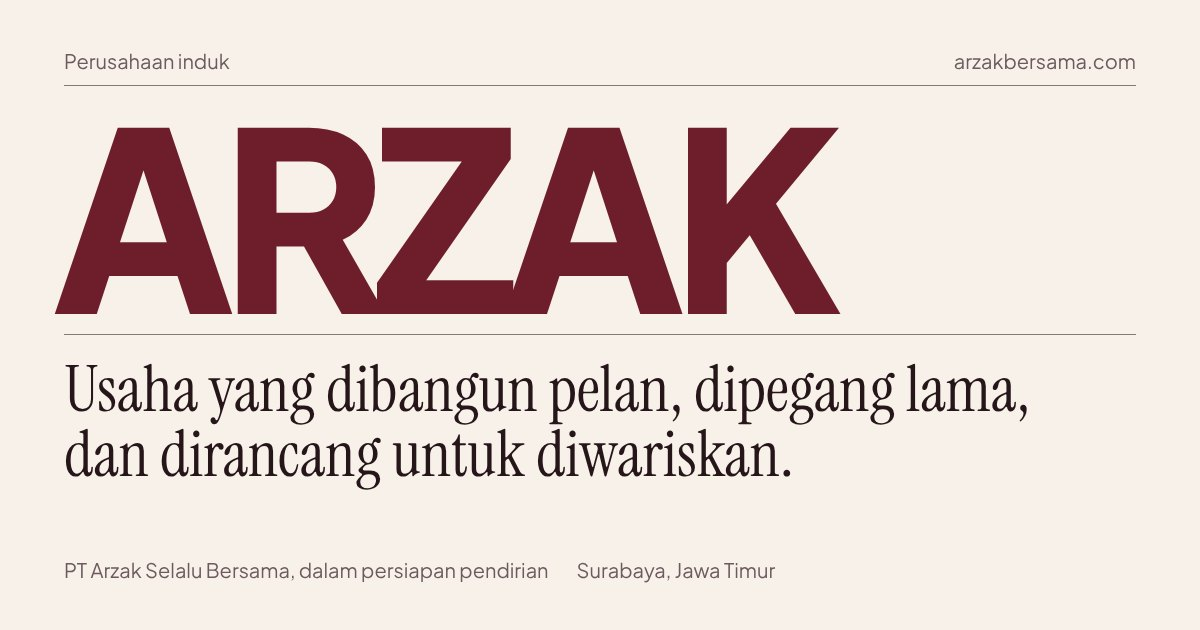
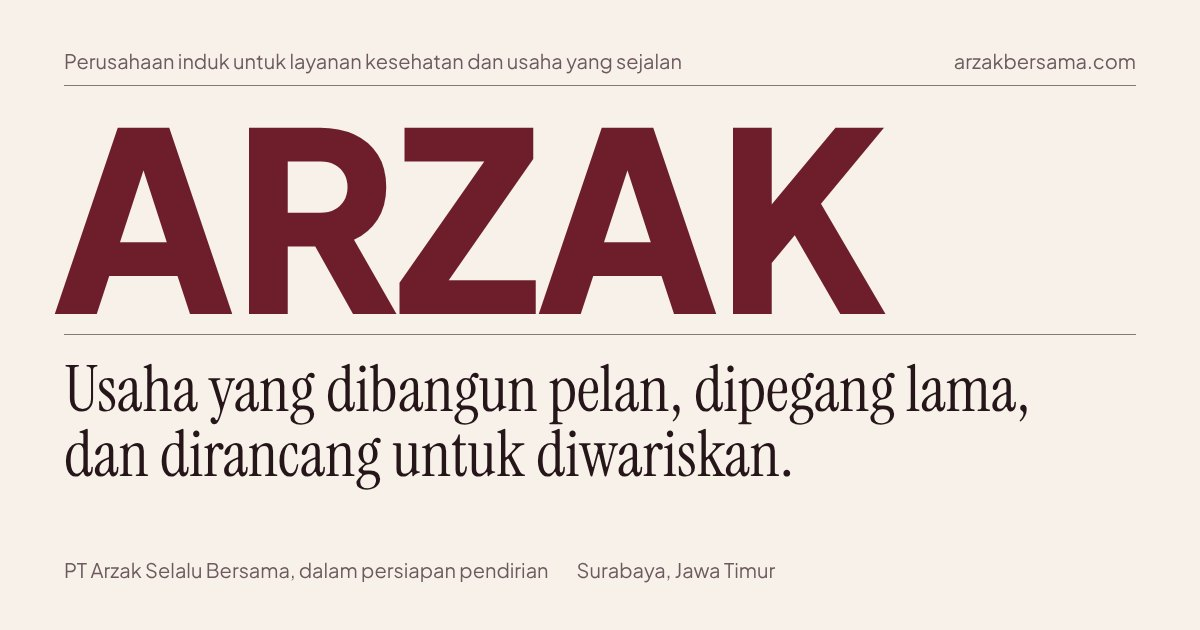
Kepala halaman, anatomi, dan papan nama diperbaiki
Claude-Session: https://claude.ai/code/session_01NvQn2CAaQgTbqh143HKJcU

Changed region(s): [[0.185, 0.181, 0.74, 0.5127], [0.185, 0.0905, 0.5858, 0.1206]]

diff --git a/index.html b/index.html
@@ -96,12 +96,10 @@ h2, h3, .lead h1 { text-wrap: balance; }
 .nameplate {
   font-family: var(--sans); font-weight: 800;
   font-size: clamp(5.5rem, 25.5vw, 23rem);
-  line-height: .8; letter-spacing: -.03em; color: var(--burg);
+  line-height: .8; letter-spacing: -.01em; color: var(--burg);
   margin: clamp(.75rem, 2vw, 1.5rem) 0 clamp(.5rem, 1.6vw, 1.25rem) -.05em;
   white-space: nowrap;
 }
-/* jarak R–Z dirapatkan, Z–A dibiarkan longgar supaya kedua huruf tidak bersentuhan */
-.nameplate .kern { margin-left: -.06em; letter-spacing: 0; }
 .origin {
   display: grid; grid-template-columns: 1fr 1fr; gap: clamp(1rem, 3vw, 2.5rem);
   border-top: 1px solid var(--rule-strong); padding-top: .9rem;
@@ -243,6 +241,7 @@ h2, h3, .lead h1 { text-wrap: balance; }
 .anat-head { display: flex; justify-content: space-between; align-items: baseline; gap: 1rem; border-bottom: 1px solid var(--rule-dark); padding-bottom: .9rem; }
 .anat-head h2 { font-size: clamp(1.5rem, 2.6vw, 2.25rem); font-weight: 700; letter-spacing: -.02em; }
 .anat-head span { color: var(--on-muted); font-size: .9375rem; }
+.anat-lede { font-family: var(--serif); font-size: clamp(1.75rem, 3.6vw, 3rem); line-height: 1.1; color: var(--on); max-width: 22ch; margin-top: clamp(1.5rem, 3.5vw, 2.5rem); }
 .anat-grid { display: grid; grid-template-columns: minmax(0, 7fr) minmax(0, 5fr); gap: clamp(2rem, 5vw, 5rem); align-items: center; margin-top: clamp(2rem, 5vw, 3.5rem); }
 @media (max-width: 56rem) { .anat-grid { grid-template-columns: 1fr; } }
 .anat figure svg { width: 100%; height: auto; max-height: 34rem; overflow: visible; }
@@ -345,10 +344,10 @@ h2, h3, .lead h1 { text-wrap: balance; }
 <a class="skip" href="#isi">Lewati ke isi</a>
 
 <header class="wrap plate-name">
-  <div class="edition"><span>Perusahaan induk</span><span>Edisi pertama, November 2026</span></div>
-  <p class="nameplate">AR<span class="kern">ZAK</span></p>
+  <div class="edition"><span>Profil perusahaan</span><span>Edisi pertama, November 2026</span></div>
+  <p class="nameplate">ARZAK</p>
   <div class="origin">
-    <p>Memegang, mengarahkan, dan menjaga usaha untuk jangka panjang.</p>
+    <p>Perusahaan induk untuk layanan kesehatan dan usaha yang sejalan.</p>
     <p>Surabaya, Jawa Timur</p>
   </div>
 </header>
@@ -387,7 +386,7 @@ h2, h3, .lead h1 { text-wrap: balance; }
   <section class="wrap lead" aria-labelledby="judul">
     <h1 id="judul">Usaha yang dibangun pelan, dipegang lama, dan dirancang untuk diwariskan.</h1>
     <div class="dek">
-      <p>ARZAK adalah perusahaan induk yang sedang didirikan sebagai PT Arzak Selalu Bersama (dalam persiapan pendirian). Kepemilikannya tertutup dan tidak dibuka untuk umum.</p>
+      <p>ARZAK sedang didirikan sebagai PT Arzak Selalu Bersama (dalam persiapan pendirian). Kepemilikannya tertutup dan tidak dibuka untuk umum; data pengurus dan pemegang saham diberikan kepada bank, notaris, dan calon mitra melalui korespondensi resmi.</p>
       <p>Setelah aktanya terbit, di sinilah saham usaha yang kelak didirikan atau diambil alih, gedung dan peralatan, merek, dan standar kerja akan dipegang.</p>
     </div>
   </section>
@@ -426,7 +425,7 @@ h2, h3, .lead h1 { text-wrap: balance; }
               <li data-i="2">
                 <p class="k">02 · Selat Madura</p>
                 <h3>Jembatan Suramadu, 5,4 kilometer.</h3>
-                <p>Penghubung tempat kedudukan ARZAK dengan Madura, tempat usaha pertama kami berjalan sejak 2024.</p>
+                <p>Penghubung tempat kedudukan ARZAK dengan Madura, tempat usaha pertama dalam lingkup ARZAK berjalan sejak 2024.</p>
                 <figure class="aslinya">
                   <img src="/foto/suramadu-kecil.jpg" width="960" height="642" alt="Foto Jembatan Suramadu dengan dua pylon merahnya, dilihat dari pantai saat air surut" loading="lazy" decoding="async">
                   <figcaption>Jembatan aslinya. Foto: Sakurai Midori, Wikimedia Commons, CC BY 3.0, dipotong dan warnanya disesuaikan.</figcaption>
@@ -454,6 +453,7 @@ h2, h3, .lead h1 { text-wrap: balance; }
   <section class="dark anat" id="tanda" aria-labelledby="anat-judul">
     <div class="wrap">
       <div class="anat-head"><h2 id="anat-judul">Anatomi tanda ARZAK</h2><span>Gambar 2</span></div>
+      <p class="anat-lede">Modal tanpa tata kelola tidak membentuk apa pun.</p>
       <div class="anat-grid">
         <figure><svg viewBox="-34 -16 196 140" role="img" aria-label="Logo ARZAK dengan empat bagian bernomor: kaki kiri, kaki kanan, puncak, dan lengkung emas" xmlns="http://www.w3.org/2000/svg"><g class="mark-art">
 <defs>
@@ -475,9 +475,9 @@ h2, h3, .lead h1 { text-wrap: balance; }
 </g>
 </g><line class="lead-line" x1="-15.9" y1="41.0" x2="50.1" y2="52" stroke="#C9A24B" stroke-width=".7"/><circle class="badge" cx="50.1" cy="52" r="1.9" fill="#2A0B12" stroke="#C9A24B" stroke-width=".8"/><g class="badge"><circle cx="-22" cy="40" r="6.2" fill="#2A0B12" stroke="#C9A24B" stroke-width=".9"/><text x="-22" y="42.4" text-anchor="middle" font-family="Plus Jakarta Sans, sans-serif" font-weight="700" font-size="6.6" fill="#C9A24B">1</text></g><line class="lead-line" x1="143.8" y1="80.0" x2="92.8" y2="80" stroke="#C9A24B" stroke-width=".7"/><circle class="badge" cx="92.8" cy="80" r="1.9" fill="#2A0B12" stroke="#C9A24B" stroke-width=".8"/><g class="badge"><circle cx="150" cy="80" r="6.2" fill="#2A0B12" stroke="#C9A24B" stroke-width=".9"/><text x="150" y="82.4" text-anchor="middle" font-family="Plus Jakarta Sans, sans-serif" font-weight="700" font-size="6.6" fill="#C9A24B">2</text></g><line class="lead-line" x1="64.0" y1="-1.8" x2="64" y2="19" stroke="#C9A24B" stroke-width=".7"/><circle class="badge" cx="64" cy="19" r="1.9" fill="#2A0B12" stroke="#C9A24B" stroke-width=".8"/><g class="badge"><circle cx="64" cy="-8" r="6.2" fill="#2A0B12" stroke="#C9A24B" stroke-width=".9"/><text x="64" y="-5.6" text-anchor="middle" font-family="Plus Jakarta Sans, sans-serif" font-weight="700" font-size="6.6" fill="#C9A24B">3</text></g><line class="lead-line" x1="-16.5" y1="101.1" x2="20.8" y2="81.4" stroke="#C9A24B" stroke-width=".7"/><circle class="badge" cx="20.8" cy="81.4" r="1.9" fill="#2A0B12" stroke="#C9A24B" stroke-width=".8"/><g class="badge"><circle cx="-22" cy="104" r="6.2" fill="#2A0B12" stroke="#C9A24B" stroke-width=".9"/><text x="-22" y="106.4" text-anchor="middle" font-family="Plus Jakarta Sans, sans-serif" font-weight="700" font-size="6.6" fill="#C9A24B">4</text></g></svg></figure>
         <ol class="parts">
-          <li><span class="n" aria-hidden="true">1</span><div><b>Kaki kiri: modal.</b><p>Saham dan aset yang ditanam untuk jangka panjang, bukan untuk dijual cepat.</p></div></li>
-          <li><span class="n" aria-hidden="true">2</span><div><b>Kaki kanan: tata kelola.</b><p>Standar, pembukuan, dan prosedur tertulis. Satu kaki saja tidak membentuk huruf apa pun.</p></div></li>
-          <li><span class="n" aria-hidden="true">3</span><div><b>Puncak: satu kepemilikan.</b><p>Kepemilikan ARZAK tidak dipecah dan tidak dibuka untuk umum. Mitra masuk di tingkat usaha yang kelak dinaungi, tidak di ARZAK.</p></div></li>
+          <li><span class="n" aria-hidden="true">1</span><div><b>Kaki kiri: modal.</b><p>Saham dan aset dipegang untuk jangka panjang, tidak diperdagangkan.</p></div></li>
+          <li><span class="n" aria-hidden="true">2</span><div><b>Kaki kanan: tata kelola.</b><p>Standar, pembukuan, dan tiga pertanyaan sebelum masuk usaha baru.</p></div></li>
+          <li><span class="n" aria-hidden="true">3</span><div><b>Puncak: satu titik keputusan.</b><p>Arah ARZAK diputuskan di satu tempat, yaitu rapat pemegang sahamnya. Kepemilikannya tertutup; mitra masuk di tingkat usaha yang kelak dinaungi, tidak di ARZAK.</p></div></li>
           <li><span class="n" aria-hidden="true">4</span><div><b>Lengkung emas: yang kelak dinaungi.</b><p>Saham usaha, gedung dan peralatan, merek, dan cara kerja yang kami susun.</p></div></li>
         </ol>
       </div>
@@ -488,7 +488,7 @@ h2, h3, .lead h1 { text-wrap: balance; }
     <div class="sec-head">
       <p class="kicker">Peran</p>
       <h2 id="peran-judul">Yang akan dikerjakan ARZAK setelah akta terbit</h2>
-      <p class="intro">PT Arzak Selalu Bersama masih dalam persiapan pendirian. Sampai aktanya terbit, setiap usaha kami berjalan di bawah badan usahanya sendiri.</p>
+      <p class="intro">PT Arzak Selalu Bersama masih dalam persiapan pendirian. Sampai aktanya terbit, setiap usaha dalam lingkup ARZAK berjalan di bawah badan usahanya sendiri.</p>
     </div>
     <div class="reg-grid">
       <ol class="register">
@@ -588,7 +588,7 @@ h2, h3, .lead h1 { text-wrap: balance; }
           <dd>PT Arzak Selalu Bersama sedang dalam persiapan pendirian dan akan berkedudukan di Surabaya, Jawa Timur.</dd><dt>Bukan penawaran</dt>
           <dd>Halaman ini adalah profil perusahaan. ARZAK tidak menawarkan saham dan tidak menghimpun dana dari masyarakat.</dd></dl>
       <dl class="notes"><dt>Korespondensi</dt>
-          <dd>Untuk bank, notaris, calon mitra atau target pengambilalihan, serta calon dokter dan staf senior: <a href="mailto:awal@arzakbersama.com">awal@arzakbersama.com</a></dd><dt>Situs usaha kami</dt>
+          <dd>Untuk bank, notaris, calon mitra atau target pengambilalihan, serta calon dokter dan staf senior: <a href="mailto:awal@arzakbersama.com">awal@arzakbersama.com</a>. Data pengurus dan pemegang saham diberikan melalui korespondensi ini.</dd><dt>Usaha dalam lingkup ARZAK</dt>
           <dd>Perawatan gigi dan janji temu: <a href="https://introdental.id" rel="noopener">introdental.id</a>. Pertumbuhan klinik: <a href="https://nataarah.id" rel="noopener">nataarah.id</a>.</dd><dt>Foto dan huruf</dt>
           <dd>Jembatan Suramadu: Sakurai Midori, Wikimedia Commons, <a href="https://creativecommons.org/licenses/by/3.0/" rel="noopener license">CC BY 3.0</a>, dipotong dan warnanya disesuaikan. Ruang klinik: Klinik Utama INTRO Dental. Maket peta digambar dengan kode memakai three.js, lisensi MIT. Huruf Plus Jakarta Sans dan Instrument Serif, SIL Open Font License.</dd></dl>
     </div>

diff --git a/README.md b/README.md
@@ -30,6 +30,6 @@ Situs profil ARZAK — perusahaan induk. Satu halaman statis, tanpa build, ditay
 3. Naikkan angka `?v=` pada `import('/peta/peta.js?v=…')` di `index.html` supaya browser tidak memakai versi lama.
 4. Bila tampilan ringkasnya berubah, buat ulang `peta-poster.jpg`: jalankan server lokal di akar repo, buka `/peta/src/poster.html?poster`, lalu ambil tangkapan layar elemen `.peta-stage` pada skala 2× (hasil 2400×1200).
 
-Palet: kertas `#F7F1EA`, burgundy `#6E1E2B`, anggur gelap `#2A0B12`, emas `#C9A24B` (emas untuk teks di atas kertas: `#85621F`, papan nama: `#A58131`). Huruf: Plus Jakarta Sans untuk teks, Instrument Serif hanya untuk judul utama, angka tahun, huruf awal, dan pernyataan prinsip.
+Palet: kertas `#F7F1EA`, burgundy `#6E1E2B`, anggur gelap `#2A0B12`, emas `#C9A24B` (emas untuk teks di atas kertas: `#85621F`); papan nama ARZAK berwarna burgundy. Huruf: Plus Jakarta Sans untuk teks, Instrument Serif hanya untuk judul utama, angka tahun, huruf awal, dan pernyataan prinsip.
 
 Foto: Jembatan Suramadu oleh Sakurai Midori (Wikimedia Commons, CC BY 3.0, dipotong dan warnanya disesuaikan). Foto ruang klinik milik Klinik Utama INTRO Dental. Peta 3D memakai three.js (lisensi MIT; teks lisensinya ikut di akhir `peta/peta.js`).
